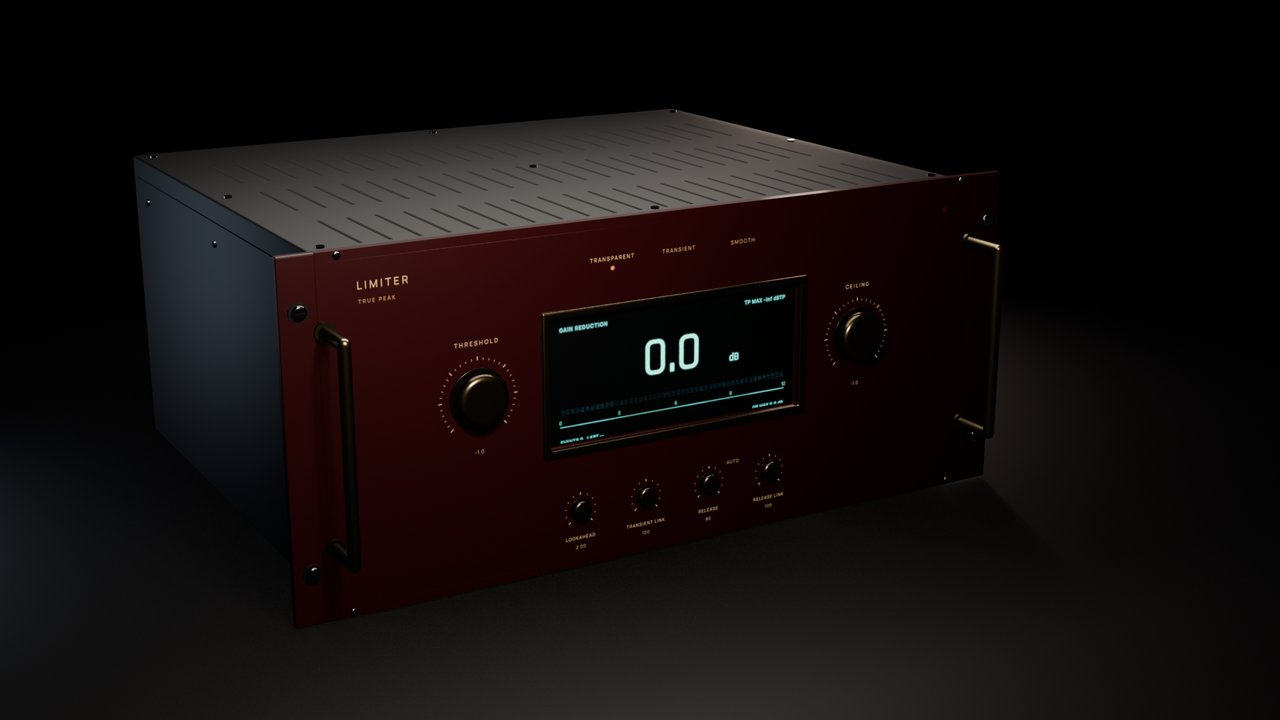
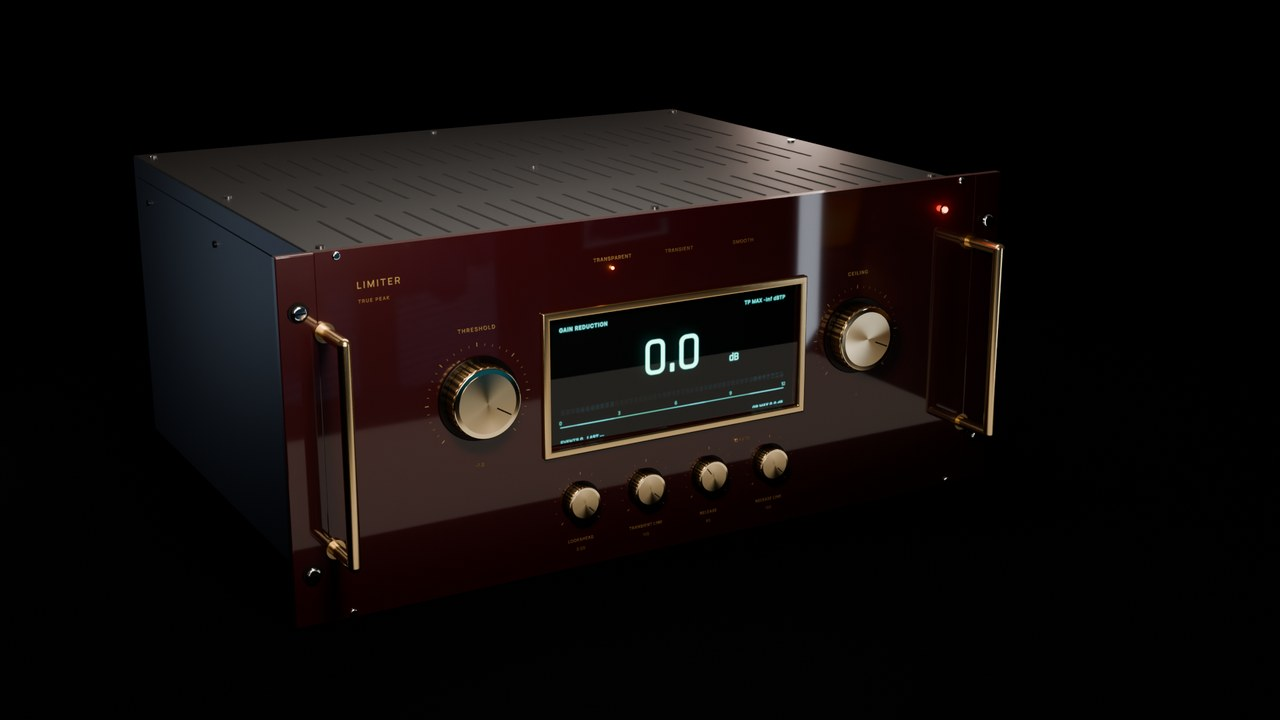
Limiter hero + close-up: fully-3D Cycles renders with real-size knobs

diff --git a/spanda.html b/spanda.html
@@ -208,7 +208,7 @@
     <figure class="plate" style="margin:0"><img src="img/con-noir-fan.jpg" alt="Console sunburst fan close-up, Noir skin" width="1280" height="720" loading="lazy"></figure>
     <figure class="plate" style="margin:0"><img src="img/dyn-noir-scope.jpg" alt="Dynamics phosphor scope close-up, Noir skin" width="1280" height="720" loading="lazy"></figure>
     <figure class="plate" style="margin:0"><img src="img/neu-noir-lens.jpg" alt="Neural lens scope close-up, Noir skin" width="1280" height="720" loading="lazy"></figure>
-    <figure class="plate" style="margin:0"><img src="img/lim-noir-vfd.jpg" alt="Limiter VFD close-up, Noir skin" width="1280" height="720" loading="lazy"></figure>
+    <figure class="plate" style="margin:0"><img src="img/lim-noir-vfd.jpg" alt="Limiter threshold knob and VFD close-up, Noir skin, rendered in 3D" width="1280" height="720" loading="lazy"></figure>
   </div>
 </div></section>
 
